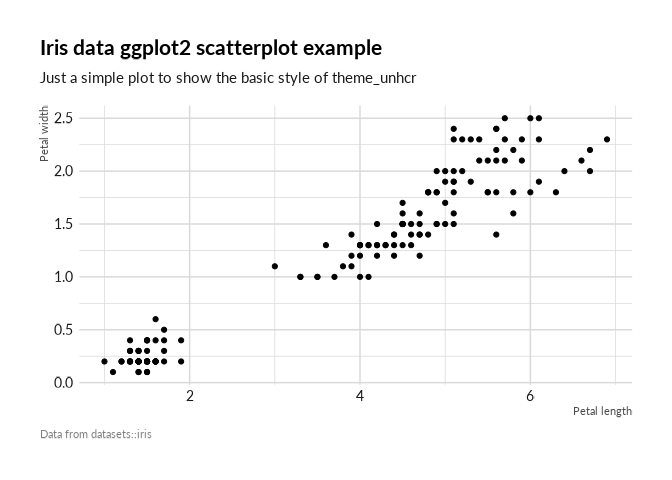
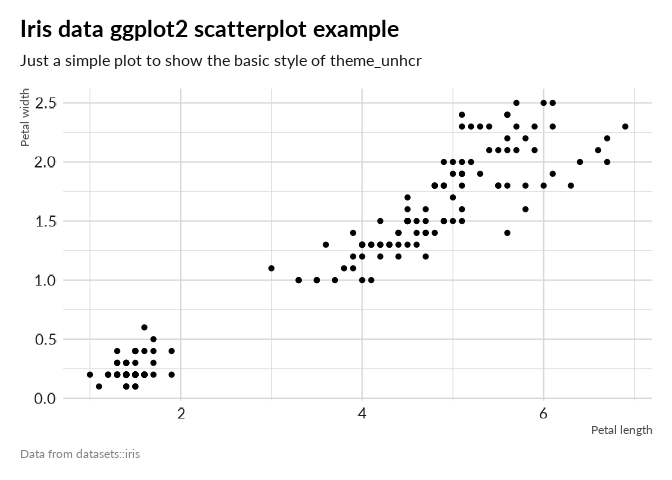
Updated README and some tweak to theme_unhcr

diff --git a/README.md b/README.md
@@ -8,26 +8,46 @@
 [![R-CMD-check](https://github.com/vidonne/unhcrthemes/workflows/R-CMD-check/badge.svg)](https://github.com/vidonne/unhcrthemes/actions)
 <!-- badges: end -->
 
-The goal of unhcrthemes is to provide a collection of template, palettes
-and themes for plots, documents, and slides based on UNHCR branding.
+The `unhcrthemes` package provide a set of `rmarkdown` templates, color
+palettes and themes for plots based on UNHCR brand book. The goal of
+this package is to ease and speed up the creation of reproducible
+reports and charts, while promoting the UNHCR visual identity.
 
 ## Installation
 
-You can install the released version of unhcrthemes from
-[CRAN](https://CRAN.R-project.org) with:
+This package is not on yet on CRAN and to install it, you will need the
+`remotes` package.
 
 ``` r
-install.packages("unhcrthemes")
+# install.packages("remotes")
+remotes::install_github("vidonne/unhcrthemes")
 ```
 
-And the development version from [GitHub](https://github.com/) with:
+## Content
 
-``` r
-# install.packages("devtools")
-devtools::install_github("vidonne/unhcrthemes")
-```
+A package with all necessary elements to quickly implement UNHCR Brand
+style in your statistical products and data stories:
+
+1.  Adjusted `ggplot2` theme
+2.  A series of color palette for:
+    -   **WIP** Discrete palette with either fixed or dynamically
+        extended number of shades
+    -   **WIP** Continuous diverging color palette
+    -   **WIP** Continuous color palette
+3.  Different `rmarkdown` template to quick-start report, presentation
+    or dashboard:
+    -   UNHCR Generic Report. Paginated report built on the top of
+        `pagedown`.
+    -   **TOADD** Analysis Repository contribution
+    -   **TOADD** Word with UNHCR style
+    -   **TOADD** Powerpoint with UNHCR style
+    -   **TOADD** `HTML` scrollable report
+    -   **WIP** `Xaringan` presentation
 
 ## Usage
+
+First make sure to have all your fonts - and specifically Lato -
+registered with R
 
 ``` r
 library(unhcrthemes)
@@ -47,6 +67,27 @@ font.add("Lato", regular = "Lato-Regular.ttf",  bold = "Lato-Bold.ttf", italic =
 
 # automatically use showtexts for new devices
 showtext::showtext_auto()
+```
+
+> This package is part of `unhcrverse`, a set of packages to ease the
+> production of statistical evidence and data stories. You can install
+> them all with the following:
+
+``` r
+## Use UNHCR Open data  - https://unhcr.github.io/unhcrdatapackage/docs/
+remotes::install_github('unhcr/unhcrdatapackage')
+
+## API to connect to internal data source - https://unhcr-web.github.io/hcrdata/docs/
+remotes::install_github('unhcr-web/hcrdata')
+
+## Perform High Frequency Check https://unhcr.github.io/HighFrequencyChecks/docs/
+remotes::install_github('unhcr/HighFrequencyChecks')
+
+## Process data crunching for survey dataset - https://unhcr.github.io/koboloadeR/docs/
+remotes::install_github('unhcr/koboloadeR')
+
+## Use UNHCR graphical template- https://unhcr-web.github.io/unhcRstyle/docs/
+remotes::install_github('unhcr-web/unhcRstyle')
 ```
 
 ### Base ggplot2 theme
